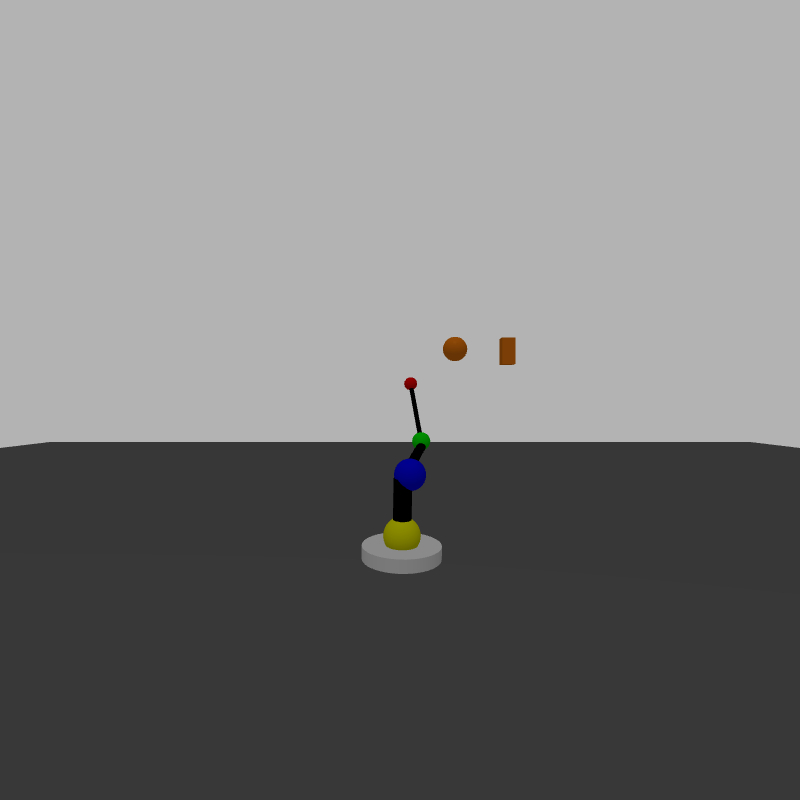
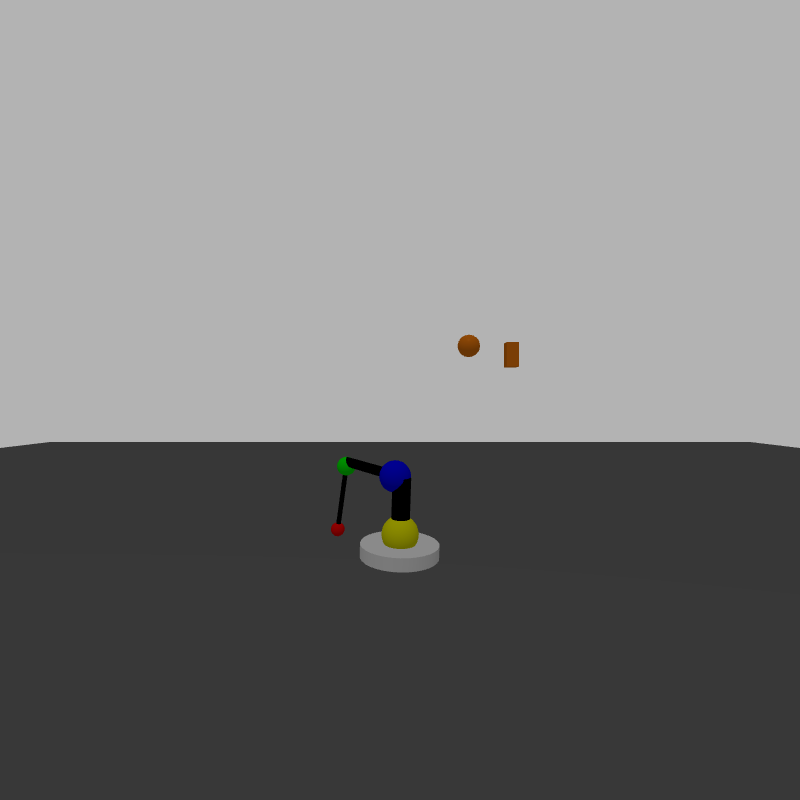
tidying up

Changed region(s): [[0.4062, 0.4688, 0.5625, 0.6875], [0.5312, 0.4062, 0.6562, 0.4688], [0.5312, 0.6875, 0.5625, 0.7188]]

diff --git a/catkin_ws/src/ivr_assignment/src/angle_calc.py b/catkin_ws/src/ivr_assignment/src/angle_calc.py
@@ -35,18 +35,18 @@ class angle_calculator:
 
         self.bridge = CvBridge()
 
-		    self.lastBluePositionCam1 = None
-		    self.lastGreenPositionCam1 = None
-		    self.lastRedPositionCam1 = None
+        self.lastBluePositionCam1 = None
+        self.lastGreenPositionCam1 = None
+        self.lastRedPositionCam1 = None
 
-		    self.lastBluePositionCam2 = None
-		    self.lastGreenPositionCam2 = None
-		    self.lastRedPositionCam2 = None
+        self.lastBluePositionCam2 = None
+        self.lastGreenPositionCam2 = None
+        self.lastRedPositionCam2 = None
 
 
-    def pixel2meter(self,image):
-    	circle0Pos = self.findYellowCentre(image)
-    	circle1Pos = self.findBlueCentre(image)
+    def pixel2meter(self,image,camera):
+    	circle0Pos = self.findYellowCentre(image,camera)
+    	circle1Pos = self.findBlueCentre(image,camera)
     	dist0 = np.sum((circle0Pos-circle1Pos)**2)
     	metres0 = 2.5/np.sqrt(dist0)
 
@@ -80,7 +80,7 @@ class angle_calculator:
                    cy = self.lastBluePositionCam1[1]
                else:
                    cx = self.lastBluePosition[0]
-			       cy = self.lastBluePosition[1]
+                   cy = self.lastBluePosition[1]
            else:
                cx = 0
                cy = 0
@@ -88,27 +88,26 @@ class angle_calculator:
            cx = int(M['m10']/M['m00'])
            cy = int(M['m01']/M['m00'])
 
-
-		   if colour == "redJoint":
-               if camera == 1:
-                   self.lastRedPositionCam1 = np.array([cx, cy])
-               else:
-                   self.lastRedPositionCam2 = np.array([cx, cy])
-           elif colour == "greenJoint":
-               if camera == 1:
-		           self.lastGreenPositionCam1 = np.array([cx, cy])
-		       else:
-		           self.lastGreenPositionCam2 = np.array([cx, cy])
-           elif colour == "blueJoint":
-               if camera == 1:
-		           self.lastBluePositionCam1 = np.array([cx, cy])
-		       if else:
-		           self.lastBluePositionCam2 = np.array([cx, cy])
+       if colour == "redJoint":
+           if camera == 1:
+               self.lastRedPositionCam1 = np.array([cx, cy])
+           else:
+               self.lastRedPositionCam2 = np.array([cx, cy])
+       elif colour == "greenJoint":
+           if camera == 1:
+               self.lastGreenPositionCam1 = np.array([cx, cy])
+           else:
+               self.lastGreenPositionCam2 = np.array([cx, cy])
+       elif colour == "blueJoint":
+           if camera == 1:
+               self.lastBluePositionCam1 = np.array([cx, cy])
+           else:
+               self.lastBluePositionCam2 = np.array([cx, cy])
 
        return np.array([cx, cy])
 
     def findYellowCentre(self, image, camera):
-       return self.findCentre(image, (0, 80, 80), (30, 255, 255), "yellowJoint")
+       return self.findCentre(image, (0, 80, 80), (30, 255, 255), "yellowJoint",camera)
 
     def findBlueCentre(self, image, camera):
        return self.findCentre(image, (90, 0, 0), (255, 70, 70), "blueJoint", camera)
@@ -283,8 +282,8 @@ class angle_calculator:
         cam1_sphere_centre = self.find_sphere_centre(cam1_image)
         cam2_sphere_centre = self.find_sphere_centre(cam2_image)
 
-        a = self.pixel2meter(cam1_image)
-        b = self.pixel2meter(cam2_image)
+        a = self.pixel2meter(cam1_image,1)
+        b = self.pixel2meter(cam2_image,2)
         x = b * cam2_sphere_centre[0]
         y = a * cam1_sphere_centre[0]
         z = a * cam1_sphere_centre[1]

diff --git a/forward_kinematics.py b/forward_kinematics.py
@@ -34,7 +34,7 @@ def forward_kinematics(angle1, angle2, angle3, angle4):
     theta3 = angle3
     theta4 = angle4
     link1 = [2.5, theta1,0,0]
-    link2 = [0,angle2,0,-math.pi/2]
+    link2 = [3.5,angle2,0,-math.pi/2]
     link3 = [3.5,angle3,0,math.pi/2]
     link4 = [0,theta4,3.0,math.pi/2]
 
